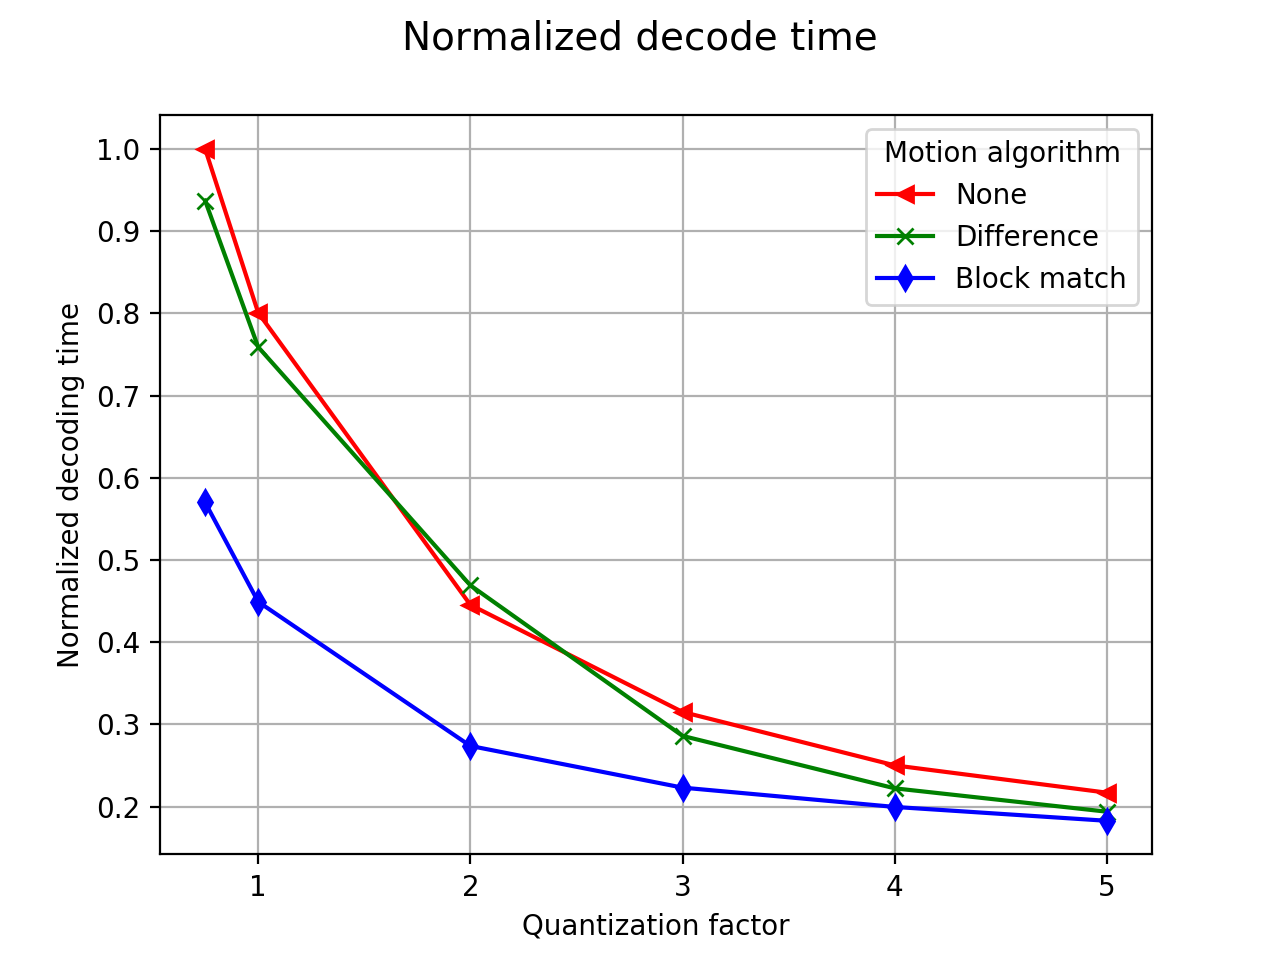
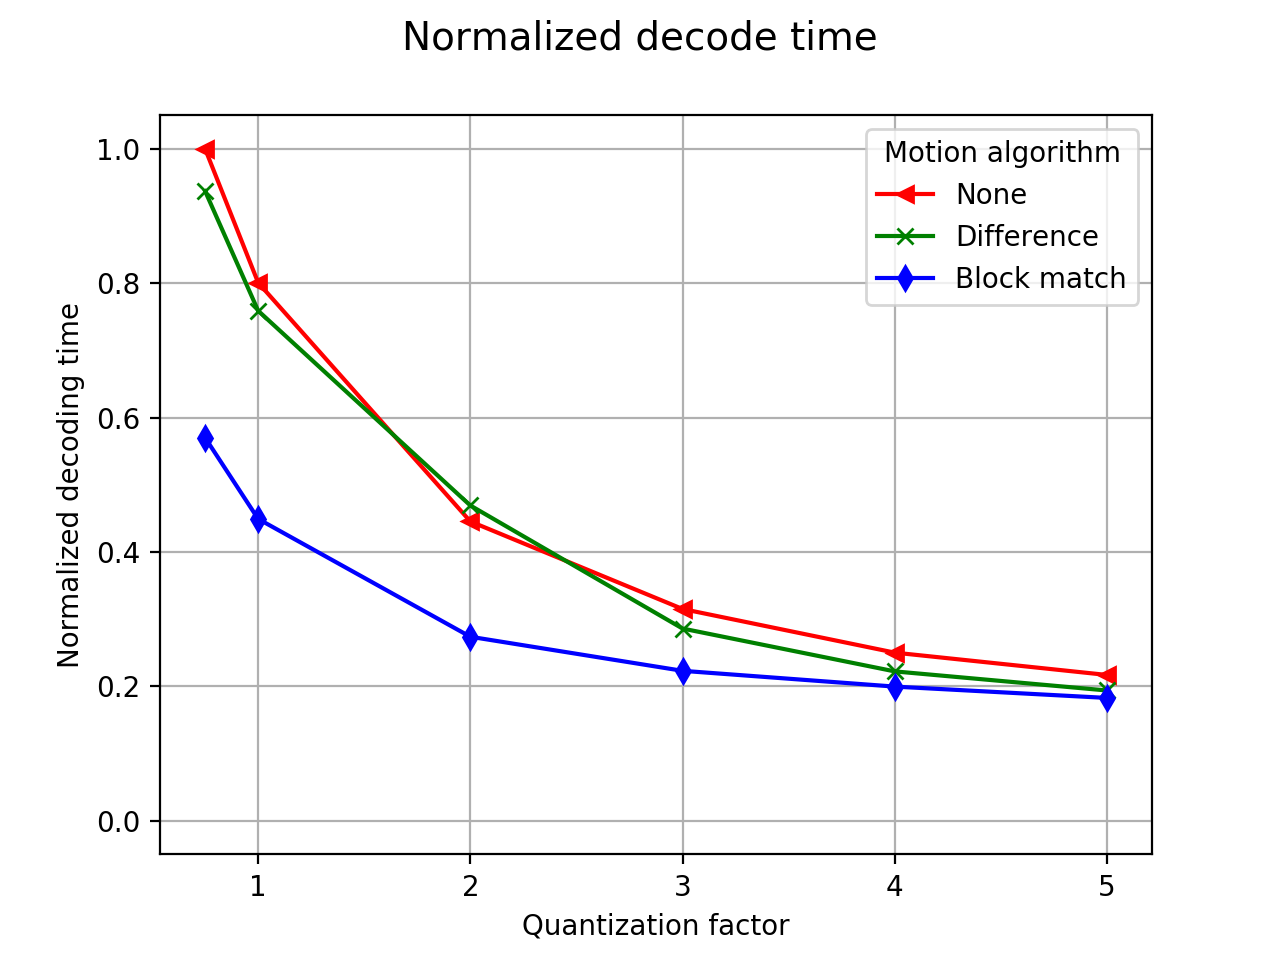
final analyzer script and plots

diff --git a/testing/analyzer/analyzer_plot.py b/testing/analyzer/analyzer_plot.py
@@ -39,7 +39,8 @@ ax1.plot(QF, encode_time_diff, label='Difference', color='g', marker='x')
 ax1.plot(QF, encode_time_bm, label='Block match', color='b', marker='d')
 plt.grid(True)
 plt.xlabel("Quantization factor")
-plt.ylabel("Normalized encode time")
+plt.ylabel("Normalized encoding time")
+plt.ylim(ymin=-0.05, ymax=1.05)
 plt.legend(title='Motion algorithm')
 plt.suptitle("Normalized encode time", fontsize=14)
 plt.savefig('encode_time.png', dpi=200)
@@ -54,6 +55,7 @@ ax1.plot(QF, decode_time_bm, label='Block match', color='b', marker='d')
 plt.grid(True)
 plt.xlabel("Quantization factor")
 plt.ylabel("Normalized decoding time")
+plt.ylim(ymin=-0.05, ymax=1.05)
 plt.legend(title='Motion algorithm')
 plt.suptitle("Normalized decode time", fontsize=14)
 plt.savefig('decode_time.png', dpi=200)
